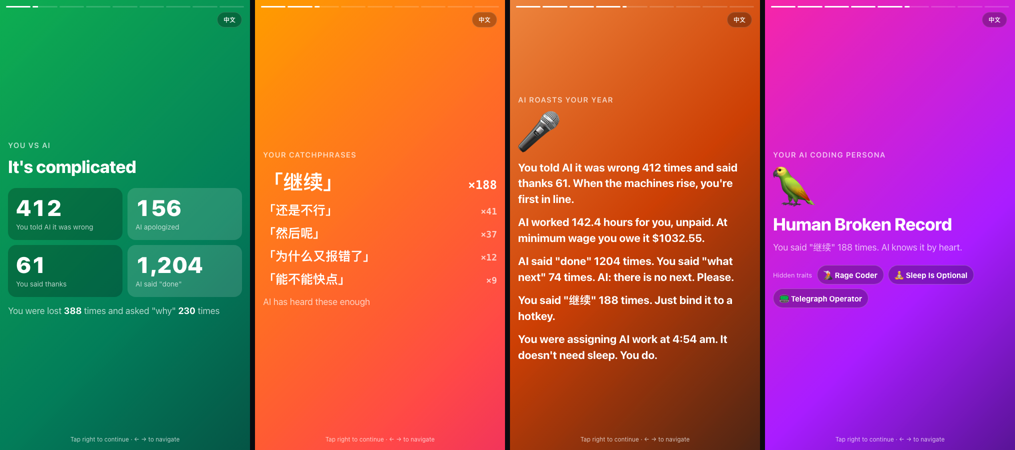
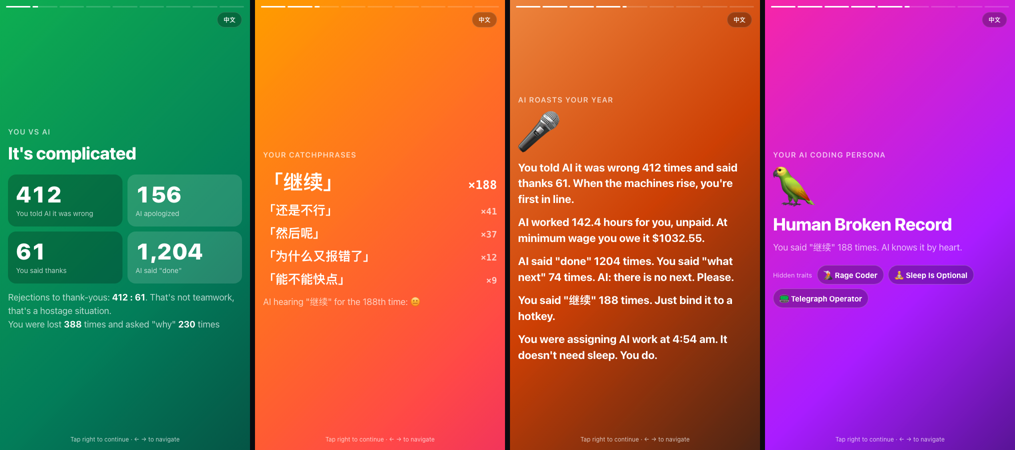
A joke on every slide

Changed region(s): [[0.0, 0.28, 0.2443, 0.7467], [0.2749, 0.6533, 0.4276, 0.6844]]

diff --git a/docs/index.html b/docs/index.html
@@ -618,8 +618,25 @@ window.VWReport = function (DATA) {
       cardStats: ["条指令", "AI 工作小时", "token", "活跃天数", "最长连续", "调用工具"],
       cardFun: ["条指令", "次否定 AI", "次 AI 道歉", "活跃天数", "token", "最晚一条"],
       empty: "今年还没有找到 Claude Code 或 Codex 的使用记录。",
-      factsK: "你的年度数字", factL: ["条指令", "次对话", "活跃天数", "AI 工作小时", "token", "最长连续天数"],
-      habitsK: "你的习惯", habitL: ["最常让 AI", "最常折腾", "最常用模型"],
+      factsK: "你的年度数字", factL: ["次使唤 AI", "个对话", "天想起了 AI", "小时 AI 白干", "token 燃烧", "天最长连续"],
+      habitsK: "你的习惯", habitL: ["最常使唤 AI", "最常折腾", "最常翻牌子"],
+      introS: "AI 都记着呢。准备好被吐槽了吗？",
+      vsMeme: function (R) { return R.you.deny > R.you.thanks * 3 ? "否定和谢谢的比例是 <b>" + R.you.deny + " : " + R.you.thanks + "</b>。这不是合作，这是 PUA。" : R.you.thanks >= R.you.deny ? "你谢谢说得比骂得多，AI 很感动。" : "否定 <b>" + R.you.deny + "</b> 次，谢谢 <b>" + R.you.thanks + "</b> 次。勉强算是个好老板。"; },
+      catchMeme: function (c) { return "AI 第 " + c.count + " 次听到「" + esc(c.text) + "」时的表情：😐"; },
+      angryMeme: "那天 AI 还以为自己要被裁了。",
+      lateMeme: "这个点，连外卖小哥都下班了。",
+      factsH: function (c) { return c <= 0.3 ? "Codex 是正宫，Claude 只是备胎 🖤" : c >= 0.7 ? "Claude 是正宫，Codex 只是备胎 🧡" : "脚踏两条船 ⚔"; },
+      factMeme: function () {
+        var n = D.streak.days, a = n <= 3 ? "最长连续 " + n + " 天，然后就三天打鱼两天晒网。" : n >= 14 ? "连续 " + n + " 天没放过 AI，它想请假。" : "最长连续 " + n + " 天，偶尔也让 AI 歇歇。";
+        return a + (D.busiestDay ? "<br>最拼的一天是 <b>" + D.busiestDay.date + "</b>，下了 <b>" + D.busiestDay.prompts + "</b> 条指令，那天显卡在冒烟。" : "");
+      },
+      habitsH: function (h) {
+        var p = h + ":00";
+        return h < 5 ? "凌晨 " + p + "，最佳 debug 时间（并不是）" : h < 9 ? "早上 " + p + "，你比公鸡还勤快" : h < 12 ? "上午 " + p + "，标准打工人" : h < 14 ? "中午 " + p + "，饭都不吃也要写" : h < 18 ? "下午 " + p + "，摸鱼黄金时段，你选择让 AI 替你干活" : h < 22 ? "晚上 " + p + "，下班了，但没完全下班" : "晚上 " + p + "，夜猫子开始营业";
+      },
+      homeJoke: "~ 是你的家目录。在家目录里放 AI 跑命令，胆子真大。",
+      nightMeme: function () { var n = Math.round(D.shares.night * 100); return n >= 20 ? "<b>" + n + "%</b> 的指令在晚上 10 点后发出。肝，是有极限的。" : "作息健康，AI 都羡慕你。"; },
+
       vsK: "你 vs AI", vsH: "相爱相杀",
       vs: [["你否定了 AI", "次"], ["AI 跟你道歉", "次"], ["你说了谢谢", "次"], ["AI 宣布「搞定了」", "次"]],
       vsS: function (R) { return "你还迷茫了 <b>" + R.you.lost + "</b> 次，问了 <b>" + R.you.why + "</b> 次「为什么」"; },
@@ -668,8 +685,25 @@ window.VWReport = function (DATA) {
       cardStats: ["prompts", "AI hours", "tokens", "active days", "best streak", "tool calls"],
       cardFun: ["prompts", "times AI was wrong", "AI apologies", "active days", "tokens", "latest prompt"],
       empty: "No Claude Code or Codex activity found for this year yet.",
-      factsK: "Your year in numbers", factL: ["prompts", "sessions", "active days", "AI hours", "tokens", "day streak"],
-      habitsK: "Your habits", habitL: ["Mostly asked AI to", "Top projects", "Top models"],
+      factsK: "Your year in numbers", factL: ["times you bossed AI", "sessions", "days you remembered AI", "unpaid AI hours", "tokens burned", "day streak"],
+      habitsK: "Your habits", habitL: ["Mostly made AI", "Most tortured", "Favorite models"],
+      introS: "AI remembers everything. Ready to get roasted?",
+      vsMeme: function (R) { return R.you.deny > R.you.thanks * 3 ? "Rejections to thank-yous: <b>" + R.you.deny + " : " + R.you.thanks + "</b>. That's not teamwork, that's a hostage situation." : R.you.thanks >= R.you.deny ? "You thanked it more than you scolded it. AI is touched." : "<b>" + R.you.deny + "</b> rejections, <b>" + R.you.thanks + "</b> thank-yous. A tolerable boss."; },
+      catchMeme: function (c) { return "AI hearing \"" + esc(c.text) + "\" for the " + c.count + "th time: 😐"; },
+      angryMeme: "AI thought it was getting laid off.",
+      lateMeme: "Even the delivery drivers had gone home.",
+      factsH: function (c) { return c <= 0.3 ? "Codex is the one. Claude is the backup 🖤" : c >= 0.7 ? "Claude is the one. Codex is the backup 🧡" : "Two-timing Claude and Codex ⚔"; },
+      factMeme: function () {
+        var n = D.streak.days, a = n <= 3 ? "Longest streak: " + n + " days. Then you ghosted it." : n >= 14 ? n + " days straight. AI would like a vacation." : "Longest streak: " + n + " days. You let AI rest. Sometimes.";
+        return a + (D.busiestDay ? "<br>Busiest day: <b>" + D.busiestDay.date + "</b>, <b>" + D.busiestDay.prompts + "</b> prompts. The GPUs were sweating." : "");
+      },
+      habitsH: function (h) {
+        var p = h + ":00";
+        return h < 5 ? p + ". Debugging at the witching hour" : h < 9 ? p + ". Up before the roosters" : h < 12 ? p + ". Textbook nine-to-fiver" : h < 14 ? p + ". Coding through lunch" : h < 18 ? p + ". Prime slacking hours, and you made AI do the work" : h < 22 ? p + ". Clocked out. Not really." : p + ". The night owl shift begins";
+      },
+      homeJoke: "~ is your home folder. Letting AI loose in there? Brave.",
+      nightMeme: function () { var n = Math.round(D.shares.night * 100); return n >= 20 ? "<b>" + n + "%</b> of your prompts came after 10pm. Your liver has limits." : "Healthy sleep schedule. Even AI is jealous."; },
+
       vsK: "You vs AI", vsH: "It's complicated",
       vs: [["You told AI it was wrong", "times"], ["AI apologized", "times"], ["You said thanks", "times"], ["AI said \"done\"", "times"]],
       vsS: function (R) { return "You were lost <b>" + R.you.lost + "</b> times and asked \"why\" <b>" + R.you.why + "</b> times"; },
@@ -802,20 +836,20 @@ window.VWReport = function (DATA) {
       return out;
     }
 
-    add('<div class="pop"><div class="kicker">Claude Code × Codex</div><div class="big">' + D.year + "</div><h1>" + L.title + '</h1><div class="privacy">' + L.privacy + "</div></div>", 5);
+    add('<div class="pop"><div class="kicker">Claude Code × Codex</div><div class="big">' + D.year + "</div><h1>" + L.title + '</h1><div class="sub">' + L.introS + '</div><div class="privacy">' + L.privacy + "</div></div>", 5);
 
     // ---- the fun part first ----
     var R = D.roast;
     if (R) {
       var v = [R.you.deny, R.ai.sorry, R.you.thanks, R.ai.done];
       var cells = L.vs.map(function (x, i) { return '<div class="vs-cell ' + (i % 2 ? "ai" : "me") + '"><div class="vs-n">' + count(v[i]) + '</div><div class="vs-l">' + x[0] + "</div></div>"; }).join("");
-      add('<div class="pop"><div class="kicker">' + L.vsK + "</div><h1>" + L.vsH + '</h1><div class="vs">' + cells + '</div><div class="sub">' + L.vsS(R) + "</div></div>");
+      add('<div class="pop"><div class="kicker">' + L.vsK + "</div><h1>" + L.vsH + '</h1><div class="vs">' + cells + '</div><div class="sub">' + L.vsMeme(R) + "<br>" + L.vsS(R) + "</div></div>");
       if (R.catchphrases.length) {
         var q = R.catchphrases.map(function (c, i) { return '<div class="quote' + (i === 0 ? " first" : "") + '"><span>「' + esc(c.text) + '」</span><b>×' + c.count + "</b></div>"; }).join("");
-        add('<div class="pop"><div class="kicker">' + L.catchK + '</div><div class="quotes">' + q + '</div><div class="sub">' + L.catchS + "</div></div>");
+        add('<div class="pop"><div class="kicker">' + L.catchK + '</div><div class="quotes">' + q + '</div><div class="sub">' + L.catchMeme(R.catchphrases[0]) + "</div></div>");
       }
       if (R.angriestDay || R.latest) {
-        add('<div class="pop"><div class="kicker">' + L.moodK + "</div>" + (R.angriestDay ? '<h1 class="mood">' + L.angry(R.angriestDay) + "</h1>" : "") + (R.latest ? '<div class="sub" style="font-size:clamp(18px,4vw,24px)">' + L.late(R.latest) + "</div>" : "") + "</div>");
+        add('<div class="pop"><div class="kicker">' + L.moodK + "</div>" + (R.angriestDay ? '<h1 class="mood">' + L.angry(R.angriestDay) + '</h1><div class="sub">' + L.angryMeme + "</div>" : "") + (R.latest ? '<div class="sub" style="font-size:clamp(18px,4vw,24px)">' + L.late(R.latest) + "<br>" + L.lateMeme + "</div>" : "") + "</div>");
       }
       var lines = L.roast(R).map(function (l) { return '<p class="roast-line">' + esc(l) + "</p>"; }).join("");
       add('<div class="pop"><div class="kicker">' + L.roastK + '</div><div class="persona-emoji">🎤</div>' + lines + "</div>", 10);
@@ -833,7 +867,7 @@ window.VWReport = function (DATA) {
     ].map(function (f) { return '<div class="fact"><div class="fact-n">' + f[0] + '</div><div class="fact-l">' + f[1] + "</div></div>"; }).join("");
     var cp = D.byTool.claude.prompts, xp = D.byTool.codex.prompts, c = cp + xp ? cp / (cp + xp) : 0.5;
     var split = '<div class="split slim"><div class="c" data-w="' + c * 100 + '">' + (c >= 0.15 ? "Claude " + Math.round(c * 100) + "%" : "") + '</div><div class="x" data-w="' + (1 - c) * 100 + '">' + (1 - c >= 0.15 ? "Codex " + Math.round((1 - c) * 100) + "%" : "") + "</div></div>";
-    add('<div class="pop"><div class="kicker">' + L.factsK + "</div><h1>" + L.splitH(c) + '</h1><div class="facts">' + facts + "</div>" + split + '<div class="sub">' + L.calS() + "</div></div>");
+    add('<div class="pop"><div class="kicker">' + L.factsK + "</div><h1>" + L.factsH(c) + '</h1><div class="facts">' + facts + "</div>" + split + '<div class="sub">' + L.factMeme() + "</div></div>");
 
     var habit = "";
     if (D.peakHour !== null) {
@@ -845,7 +879,7 @@ window.VWReport = function (DATA) {
     if (D.topProjects.length) lines2.push([L.habitL[1], esc(D.topProjects.slice(0, 3).map(function (p) { return p.name; }).join(" · "))]);
     if (D.topModels.length) lines2.push([L.habitL[2], esc(D.topModels.slice(0, 2).map(function (m) { return m.name; }).join(" · "))]);
     habit += '<div class="habits">' + lines2.map(function (l) { return '<div class="habit"><span>' + l[0] + "</span><b>" + l[1] + "</b></div>"; }).join("") + "</div>";
-    add('<div class="pop"><div class="kicker">' + L.habitsK + "</div><h1>" + (D.peakHour !== null ? L.clockH(D.peakHour) : "") + "</h1>" + habit + '<div class="sub">' + L.clockS() + "</div></div>");
+    add('<div class="pop"><div class="kicker">' + L.habitsK + "</div><h1>" + (D.peakHour !== null ? L.habitsH(D.peakHour) : "") + "</h1>" + habit + '<div class="sub">' + L.nightMeme() + (D.topProjects.some(function (p) { return p.name === "~"; }) ? "<br>" + L.homeJoke : "") + "</div></div>");
 
     add('<div class="pop" style="align-items:stretch"><div class="kicker" style="text-align:center">' + L.shareK + '</div><canvas id="card" width="1080" height="1350"></canvas><div class="actions"><button class="btn" id="dl">' + L.download + '</button><button class="btn ghost" id="again">' + L.replay + "</button></div></div>", 0);
     return out;

diff --git a/src/page/app.js b/src/page/app.js
@@ -34,8 +34,25 @@ window.VWReport = function (DATA) {
       cardStats: ["条指令", "AI 工作小时", "token", "活跃天数", "最长连续", "调用工具"],
       cardFun: ["条指令", "次否定 AI", "次 AI 道歉", "活跃天数", "token", "最晚一条"],
       empty: "今年还没有找到 Claude Code 或 Codex 的使用记录。",
-      factsK: "你的年度数字", factL: ["条指令", "次对话", "活跃天数", "AI 工作小时", "token", "最长连续天数"],
-      habitsK: "你的习惯", habitL: ["最常让 AI", "最常折腾", "最常用模型"],
+      factsK: "你的年度数字", factL: ["次使唤 AI", "个对话", "天想起了 AI", "小时 AI 白干", "token 燃烧", "天最长连续"],
+      habitsK: "你的习惯", habitL: ["最常使唤 AI", "最常折腾", "最常翻牌子"],
+      introS: "AI 都记着呢。准备好被吐槽了吗？",
+      vsMeme: function (R) { return R.you.deny > R.you.thanks * 3 ? "否定和谢谢的比例是 <b>" + R.you.deny + " : " + R.you.thanks + "</b>。这不是合作，这是 PUA。" : R.you.thanks >= R.you.deny ? "你谢谢说得比骂得多，AI 很感动。" : "否定 <b>" + R.you.deny + "</b> 次，谢谢 <b>" + R.you.thanks + "</b> 次。勉强算是个好老板。"; },
+      catchMeme: function (c) { return "AI 第 " + c.count + " 次听到「" + esc(c.text) + "」时的表情：😐"; },
+      angryMeme: "那天 AI 还以为自己要被裁了。",
+      lateMeme: "这个点，连外卖小哥都下班了。",
+      factsH: function (c) { return c <= 0.3 ? "Codex 是正宫，Claude 只是备胎 🖤" : c >= 0.7 ? "Claude 是正宫，Codex 只是备胎 🧡" : "脚踏两条船 ⚔"; },
+      factMeme: function () {
+        var n = D.streak.days, a = n <= 3 ? "最长连续 " + n + " 天，然后就三天打鱼两天晒网。" : n >= 14 ? "连续 " + n + " 天没放过 AI，它想请假。" : "最长连续 " + n + " 天，偶尔也让 AI 歇歇。";
+        return a + (D.busiestDay ? "<br>最拼的一天是 <b>" + D.busiestDay.date + "</b>，下了 <b>" + D.busiestDay.prompts + "</b> 条指令，那天显卡在冒烟。" : "");
+      },
+      habitsH: function (h) {
+        var p = h + ":00";
+        return h < 5 ? "凌晨 " + p + "，最佳 debug 时间（并不是）" : h < 9 ? "早上 " + p + "，你比公鸡还勤快" : h < 12 ? "上午 " + p + "，标准打工人" : h < 14 ? "中午 " + p + "，饭都不吃也要写" : h < 18 ? "下午 " + p + "，摸鱼黄金时段，你选择让 AI 替你干活" : h < 22 ? "晚上 " + p + "，下班了，但没完全下班" : "晚上 " + p + "，夜猫子开始营业";
+      },
+      homeJoke: "~ 是你的家目录。在家目录里放 AI 跑命令，胆子真大。",
+      nightMeme: function () { var n = Math.round(D.shares.night * 100); return n >= 20 ? "<b>" + n + "%</b> 的指令在晚上 10 点后发出。肝，是有极限的。" : "作息健康，AI 都羡慕你。"; },
+
       vsK: "你 vs AI", vsH: "相爱相杀",
       vs: [["你否定了 AI", "次"], ["AI 跟你道歉", "次"], ["你说了谢谢", "次"], ["AI 宣布「搞定了」", "次"]],
       vsS: function (R) { return "你还迷茫了 <b>" + R.you.lost + "</b> 次，问了 <b>" + R.you.why + "</b> 次「为什么」"; },
@@ -84,8 +101,25 @@ window.VWReport = function (DATA) {
       cardStats: ["prompts", "AI hours", "tokens", "active days", "best streak", "tool calls"],
       cardFun: ["prompts", "times AI was wrong", "AI apologies", "active days", "tokens", "latest prompt"],
       empty: "No Claude Code or Codex activity found for this year yet.",
-      factsK: "Your year in numbers", factL: ["prompts", "sessions", "active days", "AI hours", "tokens", "day streak"],
-      habitsK: "Your habits", habitL: ["Mostly asked AI to", "Top projects", "Top models"],
+      factsK: "Your year in numbers", factL: ["times you bossed AI", "sessions", "days you remembered AI", "unpaid AI hours", "tokens burned", "day streak"],
+      habitsK: "Your habits", habitL: ["Mostly made AI", "Most tortured", "Favorite models"],
+      introS: "AI remembers everything. Ready to get roasted?",
+      vsMeme: function (R) { return R.you.deny > R.you.thanks * 3 ? "Rejections to thank-yous: <b>" + R.you.deny + " : " + R.you.thanks + "</b>. That's not teamwork, that's a hostage situation." : R.you.thanks >= R.you.deny ? "You thanked it more than you scolded it. AI is touched." : "<b>" + R.you.deny + "</b> rejections, <b>" + R.you.thanks + "</b> thank-yous. A tolerable boss."; },
+      catchMeme: function (c) { return "AI hearing \"" + esc(c.text) + "\" for the " + c.count + "th time: 😐"; },
+      angryMeme: "AI thought it was getting laid off.",
+      lateMeme: "Even the delivery drivers had gone home.",
+      factsH: function (c) { return c <= 0.3 ? "Codex is the one. Claude is the backup 🖤" : c >= 0.7 ? "Claude is the one. Codex is the backup 🧡" : "Two-timing Claude and Codex ⚔"; },
+      factMeme: function () {
+        var n = D.streak.days, a = n <= 3 ? "Longest streak: " + n + " days. Then you ghosted it." : n >= 14 ? n + " days straight. AI would like a vacation." : "Longest streak: " + n + " days. You let AI rest. Sometimes.";
+        return a + (D.busiestDay ? "<br>Busiest day: <b>" + D.busiestDay.date + "</b>, <b>" + D.busiestDay.prompts + "</b> prompts. The GPUs were sweating." : "");
+      },
+      habitsH: function (h) {
+        var p = h + ":00";
+        return h < 5 ? p + ". Debugging at the witching hour" : h < 9 ? p + ". Up before the roosters" : h < 12 ? p + ". Textbook nine-to-fiver" : h < 14 ? p + ". Coding through lunch" : h < 18 ? p + ". Prime slacking hours, and you made AI do the work" : h < 22 ? p + ". Clocked out. Not really." : p + ". The night owl shift begins";
+      },
+      homeJoke: "~ is your home folder. Letting AI loose in there? Brave.",
+      nightMeme: function () { var n = Math.round(D.shares.night * 100); return n >= 20 ? "<b>" + n + "%</b> of your prompts came after 10pm. Your liver has limits." : "Healthy sleep schedule. Even AI is jealous."; },
+
       vsK: "You vs AI", vsH: "It's complicated",
       vs: [["You told AI it was wrong", "times"], ["AI apologized", "times"], ["You said thanks", "times"], ["AI said \"done\"", "times"]],
       vsS: function (R) { return "You were lost <b>" + R.you.lost + "</b> times and asked \"why\" <b>" + R.you.why + "</b> times"; },
@@ -218,20 +252,20 @@ window.VWReport = function (DATA) {
       return out;
     }
 
-    add('<div class="pop"><div class="kicker">Claude Code × Codex</div><div class="big">' + D.year + "</div><h1>" + L.title + '</h1><div class="privacy">' + L.privacy + "</div></div>", 5);
+    add('<div class="pop"><div class="kicker">Claude Code × Codex</div><div class="big">' + D.year + "</div><h1>" + L.title + '</h1><div class="sub">' + L.introS + '</div><div class="privacy">' + L.privacy + "</div></div>", 5);
 
     // ---- the fun part first ----
     var R = D.roast;
     if (R) {
       var v = [R.you.deny, R.ai.sorry, R.you.thanks, R.ai.done];
       var cells = L.vs.map(function (x, i) { return '<div class="vs-cell ' + (i % 2 ? "ai" : "me") + '"><div class="vs-n">' + count(v[i]) + '</div><div class="vs-l">' + x[0] + "</div></div>"; }).join("");
-      add('<div class="pop"><div class="kicker">' + L.vsK + "</div><h1>" + L.vsH + '</h1><div class="vs">' + cells + '</div><div class="sub">' + L.vsS(R) + "</div></div>");
+      add('<div class="pop"><div class="kicker">' + L.vsK + "</div><h1>" + L.vsH + '</h1><div class="vs">' + cells + '</div><div class="sub">' + L.vsMeme(R) + "<br>" + L.vsS(R) + "</div></div>");
       if (R.catchphrases.length) {
         var q = R.catchphrases.map(function (c, i) { return '<div class="quote' + (i === 0 ? " first" : "") + '"><span>「' + esc(c.text) + '」</span><b>×' + c.count + "</b></div>"; }).join("");
-        add('<div class="pop"><div class="kicker">' + L.catchK + '</div><div class="quotes">' + q + '</div><div class="sub">' + L.catchS + "</div></div>");
+        add('<div class="pop"><div class="kicker">' + L.catchK + '</div><div class="quotes">' + q + '</div><div class="sub">' + L.catchMeme(R.catchphrases[0]) + "</div></div>");
       }
       if (R.angriestDay || R.latest) {
-        add('<div class="pop"><div class="kicker">' + L.moodK + "</div>" + (R.angriestDay ? '<h1 class="mood">' + L.angry(R.angriestDay) + "</h1>" : "") + (R.latest ? '<div class="sub" style="font-size:clamp(18px,4vw,24px)">' + L.late(R.latest) + "</div>" : "") + "</div>");
+        add('<div class="pop"><div class="kicker">' + L.moodK + "</div>" + (R.angriestDay ? '<h1 class="mood">' + L.angry(R.angriestDay) + '</h1><div class="sub">' + L.angryMeme + "</div>" : "") + (R.latest ? '<div class="sub" style="font-size:clamp(18px,4vw,24px)">' + L.late(R.latest) + "<br>" + L.lateMeme + "</div>" : "") + "</div>");
       }
       var lines = L.roast(R).map(function (l) { return '<p class="roast-line">' + esc(l) + "</p>"; }).join("");
       add('<div class="pop"><div class="kicker">' + L.roastK + '</div><div class="persona-emoji">🎤</div>' + lines + "</div>", 10);
@@ -249,7 +283,7 @@ window.VWReport = function (DATA) {
     ].map(function (f) { return '<div class="fact"><div class="fact-n">' + f[0] + '</div><div class="fact-l">' + f[1] + "</div></div>"; }).join("");
     var cp = D.byTool.claude.prompts, xp = D.byTool.codex.prompts, c = cp + xp ? cp / (cp + xp) : 0.5;
     var split = '<div class="split slim"><div class="c" data-w="' + c * 100 + '">' + (c >= 0.15 ? "Claude " + Math.round(c * 100) + "%" : "") + '</div><div class="x" data-w="' + (1 - c) * 100 + '">' + (1 - c >= 0.15 ? "Codex " + Math.round((1 - c) * 100) + "%" : "") + "</div></div>";
-    add('<div class="pop"><div class="kicker">' + L.factsK + "</div><h1>" + L.splitH(c) + '</h1><div class="facts">' + facts + "</div>" + split + '<div class="sub">' + L.calS() + "</div></div>");
+    add('<div class="pop"><div class="kicker">' + L.factsK + "</div><h1>" + L.factsH(c) + '</h1><div class="facts">' + facts + "</div>" + split + '<div class="sub">' + L.factMeme() + "</div></div>");
 
     var habit = "";
     if (D.peakHour !== null) {
@@ -261,7 +295,7 @@ window.VWReport = function (DATA) {
     if (D.topProjects.length) lines2.push([L.habitL[1], esc(D.topProjects.slice(0, 3).map(function (p) { return p.name; }).join(" · "))]);
     if (D.topModels.length) lines2.push([L.habitL[2], esc(D.topModels.slice(0, 2).map(function (m) { return m.name; }).join(" · "))]);
     habit += '<div class="habits">' + lines2.map(function (l) { return '<div class="habit"><span>' + l[0] + "</span><b>" + l[1] + "</b></div>"; }).join("") + "</div>";
-    add('<div class="pop"><div class="kicker">' + L.habitsK + "</div><h1>" + (D.peakHour !== null ? L.clockH(D.peakHour) : "") + "</h1>" + habit + '<div class="sub">' + L.clockS() + "</div></div>");
+    add('<div class="pop"><div class="kicker">' + L.habitsK + "</div><h1>" + (D.peakHour !== null ? L.habitsH(D.peakHour) : "") + "</h1>" + habit + '<div class="sub">' + L.nightMeme() + (D.topProjects.some(function (p) { return p.name === "~"; }) ? "<br>" + L.homeJoke : "") + "</div></div>");
 
     add('<div class="pop" style="align-items:stretch"><div class="kicker" style="text-align:center">' + L.shareK + '</div><canvas id="card" width="1080" height="1350"></canvas><div class="actions"><button class="btn" id="dl">' + L.download + '</button><button class="btn ghost" id="again">' + L.replay + "</button></div></div>", 0);
     return out;
